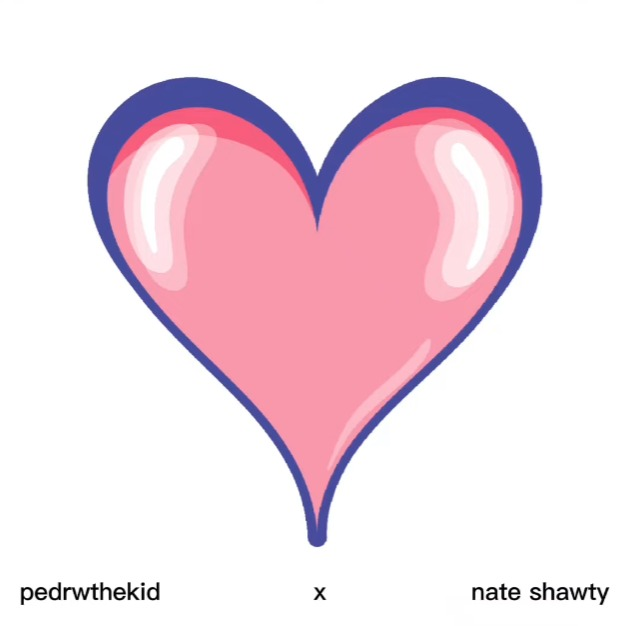
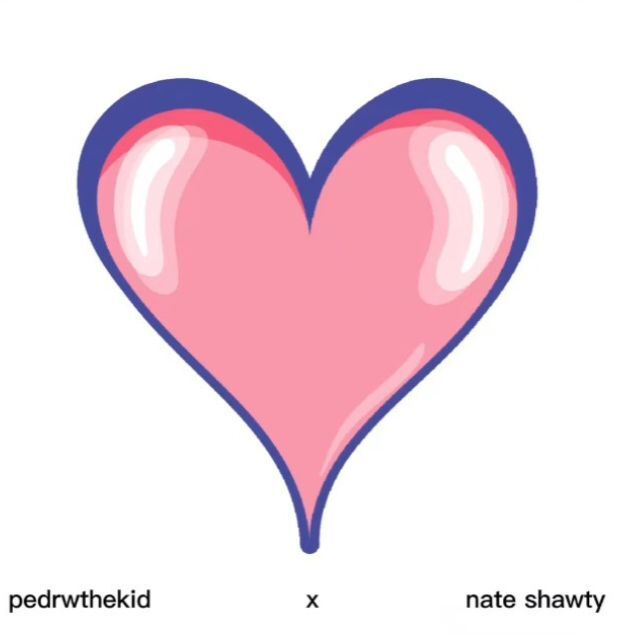
Music

diff --git a/style.css b/style.css
@@ -45,7 +45,7 @@ button{
 }
 
 #cover {
-  width: 450px;
+  width: 430px;
 }
 
 #playlist-title{
